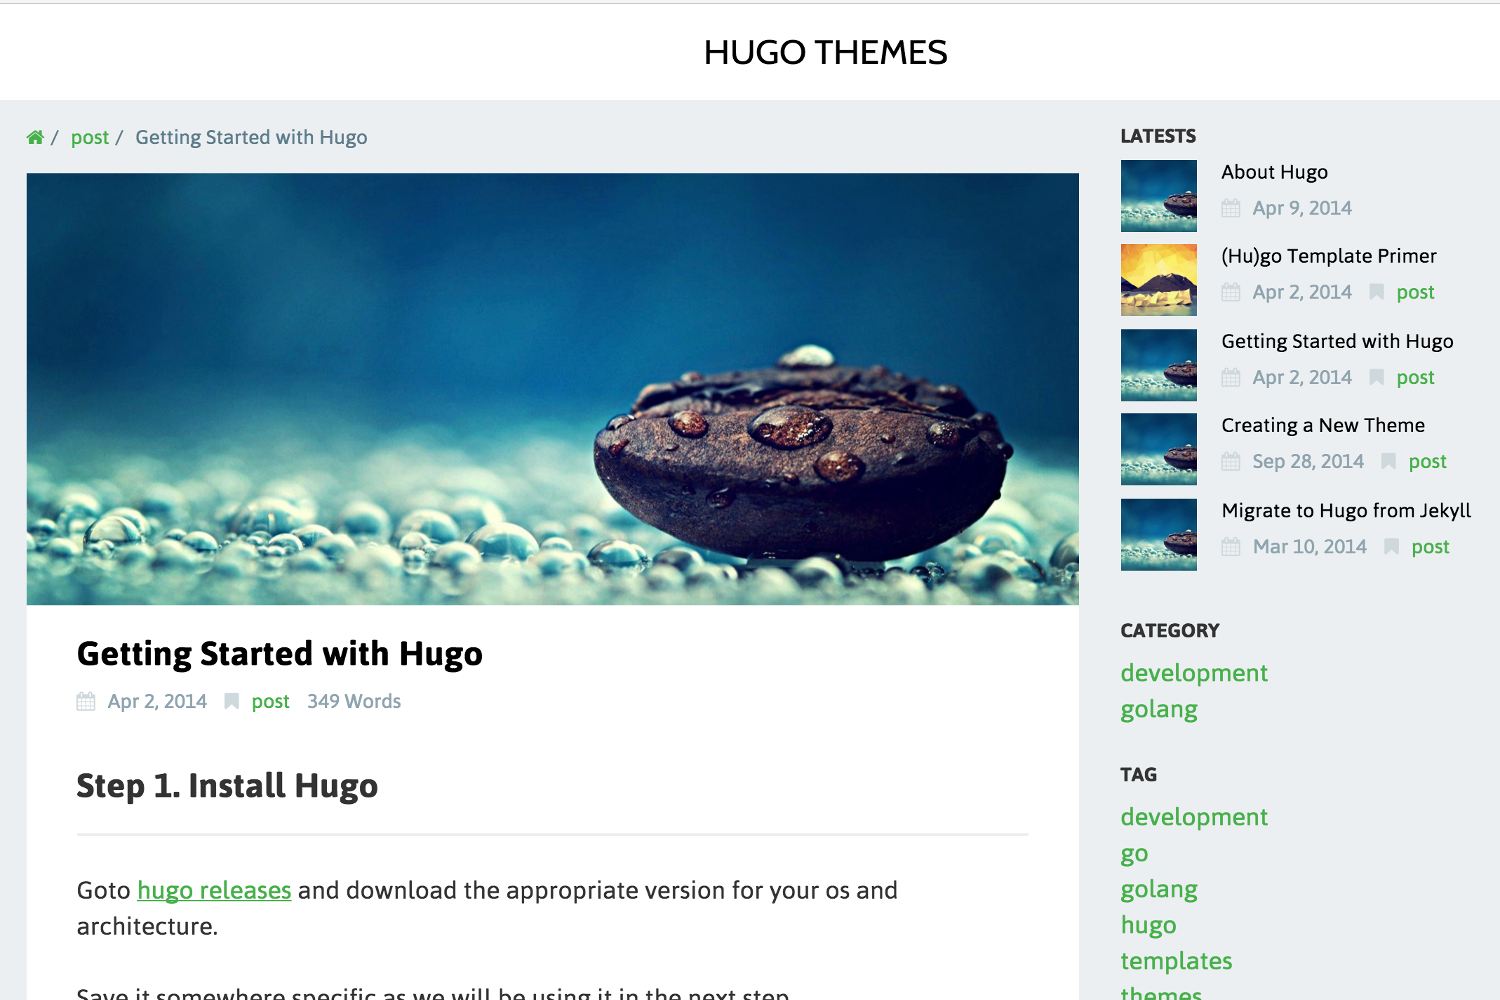
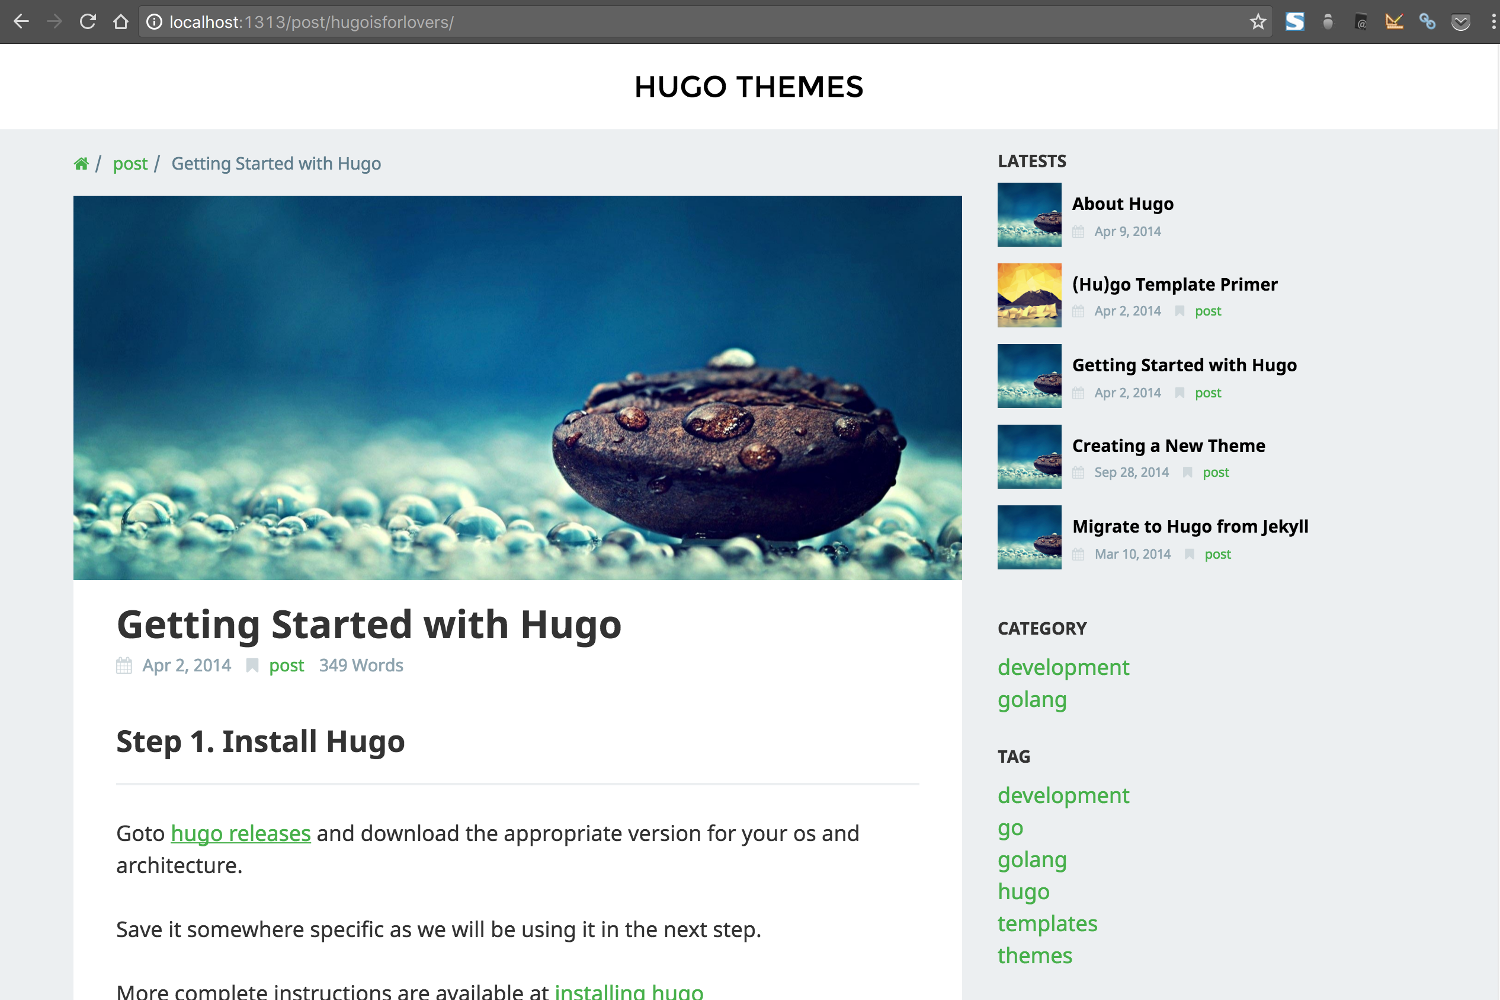
Change base font and improve li.sm design.

diff --git a/layouts/partials/styles.css b/layouts/partials/styles.css
@@ -9,7 +9,7 @@ html {
 }
 
 body {
-  font-family: Asap,'Hiragino Kaku Gothic Pro',メイリオ,Meiryo,sans-serif;
+  font-family: 'Noto Sans','Hiragino Kaku Gothic Pro',メイリオ,Meiryo,sans-serif;
   font-size: inherit;
   font-weight: 300;
   line-height: 1rem;
@@ -156,7 +156,7 @@ section.article-footer>header {
 /* Parts:logo */
 .p-logo {
   display: inline-block;
-  font-family: 'Cabin', sans-serif;
+  font-family: 'Montserrat', sans-serif;
   text-transform: uppercase;
 }
 
@@ -215,6 +215,7 @@ article {
 article .title {
   margin: 0;
   margin-bottom: .5rem;
+  font-weight: 700;
 }
 
 article .title a {
@@ -226,11 +227,6 @@ article .thumb {
   background-image: url({{ .Site.BaseURL }}images/default.jpg);
   background-position: center;
   background-size: cover;
-}
-
-article>header {
-  border-bottom: 1px solid #eee;
-  margin-bottom: 1.5rem;
 }
 
 article .summary {
@@ -258,23 +254,29 @@ article.li .thumb {
   margin-bottom: .5rem;
 }
 
-article.li.sm>header {
-  border-bottom: none;
-  margin-bottom: 0;
-}
-
 article.li.sm {
   background-color: transparent;
+  margin-bottom: .5rem;
+}
+
+article.li.sm>header {
+  padding: .5rem 0;
 }
 
 article.li.sm .title {
   font-size: .8rem;
   line-height: 1rem;
+  margin-bottom: .25rem;
+}
+
+article.li.sm .p-facts {
+  font-size: .6rem;
+  margin-bottom: 0;
 }
 
 article.li.sm .thumb {
   float: left;
-  margin-right: 1rem;
+  margin-right: .5rem;
   height: 3rem;
   width: 3rem;
 }

diff --git a/layouts/_default/li_sm.html b/layouts/_default/li_sm.html
@@ -1,9 +1,11 @@
 <article class="li sm">
   <a href="{{ .Permalink }}" class="thumb"{{ with .Params.thumbnail }} style="background-image: url({{ $.Site.BaseURL }}{{ . }});"{{ end }}></a>
-  <div class="title"><a href="{{ .Permalink }}">{{ .Title }}</a></div>
+  <header>
+    <div class="title"><a href="{{ .Permalink }}">{{ .Title }}</a></div>
 
-  <ul class="p-facts">
-    <li><i class="fa fa-calendar" aria-hidden="true"></i><time datetime="{{ .Lastmod.Format "2006-01-02T15:04:05JST" }}">{{ .Lastmod.Format ( .Site.Params.dateformat | default "Jan 2, 2006") }}</time></li>
-    {{ with .Section }}<li><i class="fa fa-bookmark" aria-hidden="true"></i><a href="{{ $.Site.BaseURL }}{{ . | urlize }}/">{{ . }}</a></li>{{ end }}
-  </ul>
+    <ul class="p-facts">
+      <li><i class="fa fa-calendar" aria-hidden="true"></i><time datetime="{{ .Lastmod.Format "2006-01-02T15:04:05JST" }}">{{ .Lastmod.Format ( .Site.Params.dateformat | default "Jan 2, 2006") }}</time></li>
+      {{ with .Section }}<li><i class="fa fa-bookmark" aria-hidden="true"></i><a href="{{ $.Site.BaseURL }}{{ . | urlize }}/">{{ . }}</a></li>{{ end }}
+    </ul>
+  </header>
 </article>

diff --git a/layouts/_default/baseof.html b/layouts/_default/baseof.html
@@ -2,7 +2,7 @@
 <html>
   <head>
     {{ partial "meta.html" . }}
-    <link href="//fonts.googleapis.com/css?family=Asap:400,700|Cabin" rel="stylesheet">
+    <link href="//fonts.googleapis.com/css?family=Noto+Sans:400,700|Montserrat" rel="stylesheet">
     <link href="//maxcdn.bootstrapcdn.com/font-awesome/4.5.0/css/font-awesome.min.css" rel="stylesheet">
     <link rel="stylesheet" href="//maxcdn.bootstrapcdn.com/bootstrap/3.3.7/css/bootstrap.min.css">
     <link rel="stylesheet" href="//cdnjs.cloudflare.com/ajax/libs/highlight.js/8.4/styles/solarized_dark.min.css">
